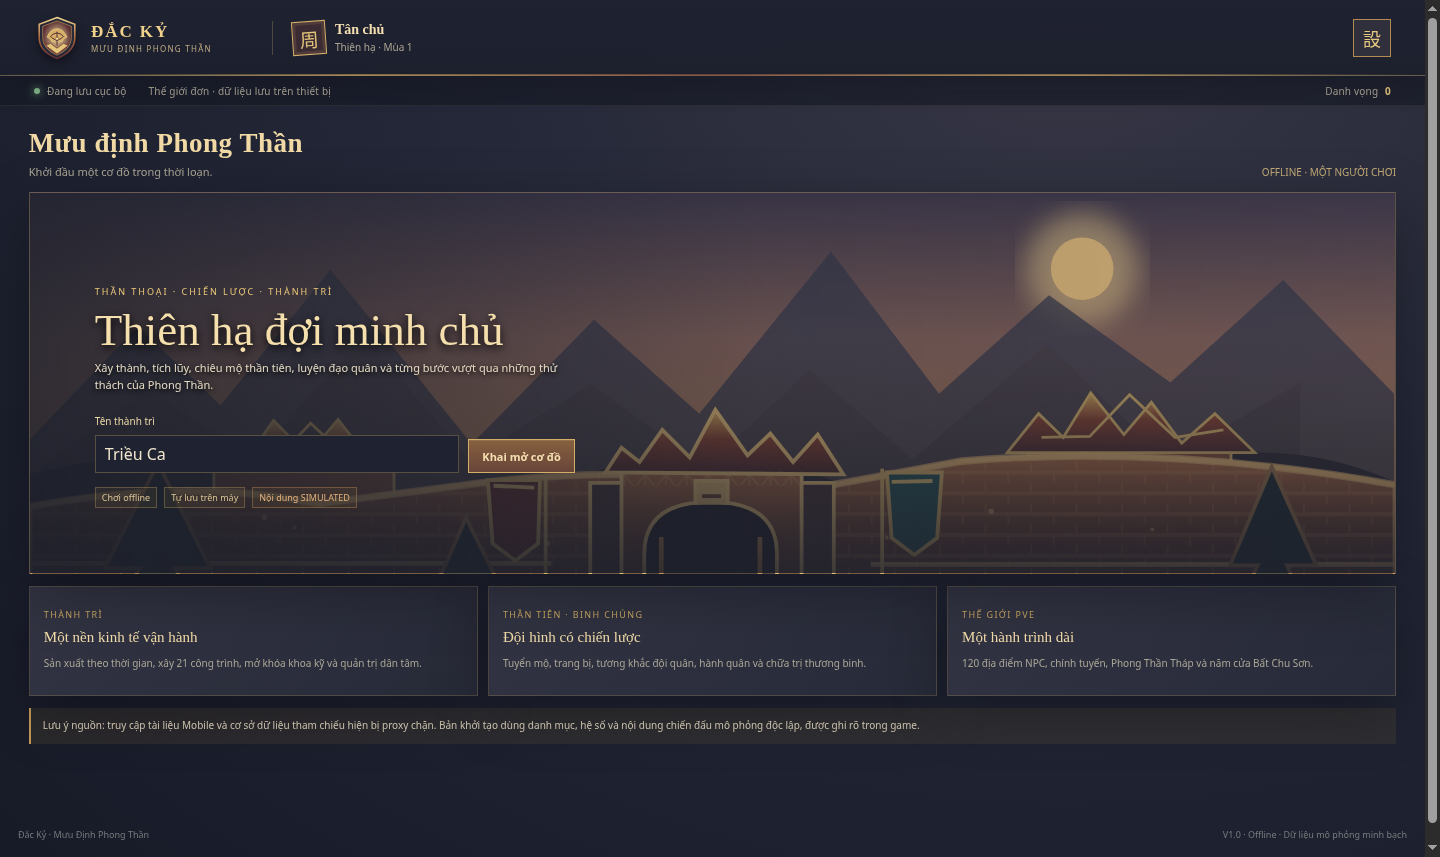
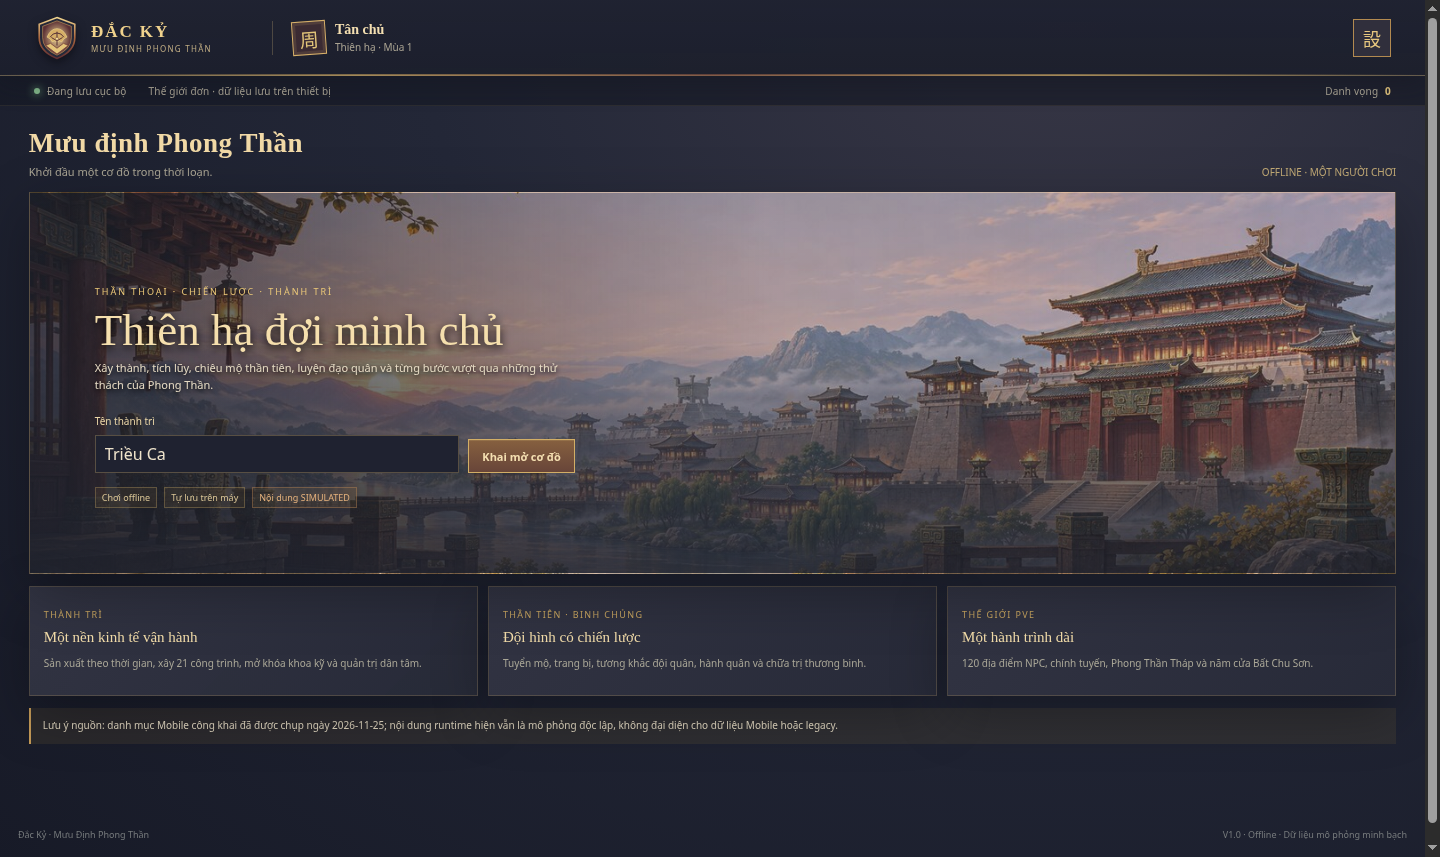
feat: add original Jiang Ziya portrait asset

Changed region(s): [[0.0625, 0.2124, 0.9688, 0.6674], [0.0938, 0.8191, 0.625, 0.8495], [0.2188, 0.5461, 0.2812, 0.5764]]

diff --git a/DackyMobile/src/ui.js b/DackyMobile/src/ui.js
@@ -151,7 +151,7 @@ function heroScreen(state, _now, uiState={}) {
     const equipped = Object.values(save.equipment || {}).filter(Boolean).map(id => ITEMS.find(x => x.id === id)?.name).filter(Boolean);
     const nextXp=save.level>=60?0:100+save.level*save.level*34;
     const combatSkill=HERO_SKILLS.find(skill=>skill.name===data.skill);
-    return `<article class="hero-card"><div class="portrait portrait-${i%6}" role="img" aria-label="Chân dung ${esc(data.name)}"></div><div class="hero-card-info"><h3 class="hero-name">${esc(data.name)}</h3><div class="hero-subtitle">${data.role} · ${data.quality} phẩm · +${Math.round((HERO_QUALITY_MULTIPLIERS[data.quality]-1)*100)}% căn cơ · ${data.element}</div><div class="hero-stats"><div class="hero-stat"><b>${data.attack+save.level*2}</b><small>Đánh</small></div><div class="hero-stat"><b>${data.defense+save.level*2}</b><small>Thủ</small></div><div class="hero-stat"><b>${fmt(heroPower(save,state))}</b><small>Lực chiến</small></div></div><div class="hero-subtitle">${esc(data.skill)} · ${esc(data.skillText)} · kỹ năng cấp ${save.skillLevel}</div>${combatSkill?`<div class="hero-subtitle">Bị động: ${esc(combatSkill.passive)} · Chủ động: ${esc(combatSkill.activeName)} (hiệp ${combatSkill.triggerRound})</div>`:''}<div class="hero-affinity"><div class="hero-affinity-head"><span>Linh căn</span><b>${save.affinity}/100</b></div><progress max="100" value="${save.affinity}"></progress><small>Tu luyện, hành quân và đấu pháp tăng linh căn; linh căn cường hóa lực chiến và pháp môn.</small></div><div class="hero-subtitle">Trang bị: ${equipped.length ? equipped.map(esc).join(' · ') : 'chưa có'} · ${fmt(save.xp)} / ${fmt(nextXp)} XP</div></div><div class="hero-footer">${button('assignHero',save.assigned?'Rời đội hình':'Vào đội hình',false,save.assigned?'button ghost small':'button small',`data-hero="${save.id}"`)}${button('trainHero',save.level>=60?'Kết mạch linh căn':'Tu luyện · + linh căn',state.resources.food<65*save.level||state.resources.gold<85*save.level||(save.level>=60&&save.affinity>=100),'button small',`data-hero="${save.id}"`)}<span class="tag simulated">SIMULATED</span></div></article>`;
+    return `<article class="hero-card"><div class="portrait portrait-${i%6}" data-hero-id="${esc(data.id)}" role="img" aria-label="Chân dung ${esc(data.name)}"></div><div class="hero-card-info"><h3 class="hero-name">${esc(data.name)}</h3><div class="hero-subtitle">${data.role} · ${data.quality} phẩm · +${Math.round((HERO_QUALITY_MULTIPLIERS[data.quality]-1)*100)}% căn cơ · ${data.element}</div><div class="hero-stats"><div class="hero-stat"><b>${data.attack+save.level*2}</b><small>Đánh</small></div><div class="hero-stat"><b>${data.defense+save.level*2}</b><small>Thủ</small></div><div class="hero-stat"><b>${fmt(heroPower(save,state))}</b><small>Lực chiến</small></div></div><div class="hero-subtitle">${esc(data.skill)} · ${esc(data.skillText)} · kỹ năng cấp ${save.skillLevel}</div>${combatSkill?`<div class="hero-subtitle">Bị động: ${esc(combatSkill.passive)} · Chủ động: ${esc(combatSkill.activeName)} (hiệp ${combatSkill.triggerRound})</div>`:''}<div class="hero-affinity"><div class="hero-affinity-head"><span>Linh căn</span><b>${save.affinity}/100</b></div><progress max="100" value="${save.affinity}"></progress><small>Tu luyện, hành quân và đấu pháp tăng linh căn; linh căn cường hóa lực chiến và pháp môn.</small></div><div class="hero-subtitle">Trang bị: ${equipped.length ? equipped.map(esc).join(' · ') : 'chưa có'} · ${fmt(save.xp)} / ${fmt(nextXp)} XP</div></div><div class="hero-footer">${button('assignHero',save.assigned?'Rời đội hình':'Vào đội hình',false,save.assigned?'button ghost small':'button small',`data-hero="${save.id}"`)}${button('trainHero',save.level>=60?'Kết mạch linh căn':'Tu luyện · + linh căn',state.resources.food<65*save.level||state.resources.gold<85*save.level||(save.level>=60&&save.affinity>=100),'button small',`data-hero="${save.id}"`)}<span class="tag simulated">SIMULATED</span></div></article>`;
   }).join('');
   const unowned = HEROES.filter(h => !state.heroes.some(ownedHero => ownedHero.id === h.id));
   const recruitPageSize=24,recruitPageCount=Math.max(1,Math.ceil(unowned.length/recruitPageSize));

diff --git a/DackyMobile/sw.js b/DackyMobile/sw.js
@@ -1,8 +1,8 @@
-const CACHE = 'dacky-mobile-shell-v3';
+const CACHE = 'dacky-mobile-shell-v4';
 const SHELL = [
   './', './index.html', './styles.css', './manifest.webmanifest', './src/catalog.js', './src/engine.js',
   './src/store.js', './src/ui.js', './src/main.js', './src/source-adapter.js', './src/approved-source-data.js',
-  './assets/crest.svg', './assets/city-panorama.jpg', './assets/heroes-atlas.svg'
+  './assets/crest.svg', './assets/city-panorama.jpg', './assets/heroes-atlas.svg', './assets/portraits/jiang-zia.webp'
 ];
 
 self.addEventListener('install', event => {

diff --git a/DackyMobile/styles.css b/DackyMobile/styles.css
@@ -147,6 +147,7 @@ body.reduce-motion *, body.reduce-motion *:before, body.reduce-motion *:after { 
 .portrait-3 { background-position:0 100%; }
 .portrait-4 { background-position:50% 100%; }
 .portrait-5 { background-position:100% 100%; }
+.portrait[data-hero-id="hero-01"] { background-image:url('./assets/portraits/jiang-zia.webp'); background-size:cover; background-position:center 35%; }
 .hero-card-info { min-width:0; }
 .hero-name { margin:0 0 4px; color:#f2dca9; font:15px Georgia,serif; }
 .hero-subtitle { color:#a9a596; font-size:9px; }

diff --git a/DackyMobile/PROGRESS.md b/DackyMobile/PROGRESS.md
@@ -4,10 +4,10 @@ Cập nhật: 2026-11-25 · Repository `vuanhtuan161094-byte/Dacky` · Nhánh ta
 
 ## Checkpoint hiện tại
 
-- `feature/dacky-v1-production` tiếp tục từ checkpoint đã push `829ac32a911091c20f86d6bd1580d947a8791aa0` và `a26a6157f74e79e198705575e3dbfe27d8d8aa89`; checkpoint hiện tại bổ sung combat thần tiên theo hiệp. Không merge hoặc force-push.
+- `feature/dacky-v1-production` tiếp tục từ các checkpoint đã push `829ac32a911091c20f86d6bd1580d947a8791aa0`, `a26a6157f74e79e198705575e3dbfe27d8d8aa89` và `4ec5879cabf29216223ec7a5ad2d9f592bb78770`; lô đang hoàn thiện thêm một portrait nguyên bản, PWA cache và APK/AAB. Không merge hoặc force-push.
 - Dùng trực tiếp cloud environment đã thiết lập; không cài lại toolchain. Capacitor 8.6.2, JDK 21, Android SDK 36 và Gradle 8.14.3 vẫn là cấu hình đã xác minh.
 - Web game hiện có kinh tế, 21 công trình, 19 nhánh khoa kỹ, 39 binh chủng, 540 hồ sơ thần tiên, 2.155 vật phẩm, 1.158 nhiệm vụ, 120 điểm PvE, chiến đấu NPC, lưu/tải, PWA và asset SVG nguyên bản. Các nội dung này vẫn được đánh dấu `SIMULATED`; chưa có nguồn nào đủ quyền để thay dữ liệu runtime.
-- Đã tích hợp nền thành trì nguyên bản do image tool tạo, 1536×512 JPEG, 206 KiB, provenance/hash ở `docs/ASSET_PROVENANCE.md`; hero/building/troop sprite, animation và VFX vẫn còn việc sản xuất.
+- Đã tích hợp nền thành trì nguyên bản 1536×512 JPEG và một portrait master Khương Tử Nha 768×1024 WebP; provenance, prompt và SHA ở `docs/ASSET_PROVENANCE.md`. Portrait chỉ gắn vào `hero-01`; các chân dung còn lại vẫn dùng atlas vector dùng chung. Sprite công trình/quân, portrait riêng cho các thần tiên khác, animation và VFX còn thiếu.
 - Đấu pháp thần tiên tại Phong Thần Tháp, Tiên Sơn và Bất Chu Sơn đã chuyển từ so lực chiến một bước sang tối đa sáu hiệp deterministic: initiative, thường công, kỹ năng, sát thương, khiên/hồi phục, máu và sĩ khí còn lại được giữ trong chiến báo. Tiên Sơn đã thắng được khóa thưởng để tránh farm lặp.
 - Đã ghim Capacitor 8.6.2, thêm lockfile và tạo Android native project. Gradle Wrapper 8.14.3 kiểm tra SHA-256; Android SDK Platform 36, Build Tools 35.0.0 và JDK 21.0.13.1+2 đã build APK debug thành công.
 - Giới hạn Phong Thần Tháp hiện là 9.999 do bản mô phỏng chọn. Số 8.992 thuộc bảng tầng Tiên Sơn legacy `elflandfloorinfo`; không có nguồn xác minh số tầng Tháp.
@@ -25,17 +25,18 @@ Cập nhật: 2026-11-25 · Repository `vuanhtuan161094-byte/Dacky` · Nhánh ta
 - `npm ci --no-audit --no-fund --cache /workspace/.npm-cache`: PASS.
 - `npm test`: PASS 32/32, gồm combat thần tiên xác định theo seed, kỹ năng theo hiệp và chặn thưởng Tiên Sơn lặp, cùng adapter nguồn fail-closed/provenance theo trường.
 - Python source tests: PASS 10/10 (8 parser + 2 normalizer). `verify_legacy_cache.py`: PASS 208/208 SHA. Parser: 67 decoded, 3 held, 161.331 hàng. Chuẩn hóa: 67 bảng, 3 held, 161.331 hàng; dữ liệu đầu ra ở `input-private/normalized_legacy/`.
-- `npm run build` sau thay đổi combat: PASS; xuất 4.680 hàng SIMULATED trên 9 bảng, PWA và `dist/offline.html`.
-- Local HTTP smoke sau thay đổi: PASS 200 cho index, PWA shell v3, source adapter modules, JPEG và single-file HTML; bản offline HTML đã inline ảnh. Chromium headless screenshot không chạy được ngay cả với `about:blank` vì crashpad/NSS trong image; không nhận screenshot QA mới.
[1 lines of base64/hex data omitted]
+- `npm run build` sau combat và portrait: PASS; xuất 4.680 hàng SIMULATED trên 9 bảng, PWA shell v4 và `dist/offline.html`; xác nhận portrait WebP được inline trong HTML một file.
+- Chromium `qa/browser-smoke.mjs`: PASS, startup/new save, 21 công trình, 11 màn hình, kinh tế, phân trang NPC/shop/quest/Tiên Sơn, xây dựng, chiêu mộ/trang bị, huấn luyện/hành quân/chiến báo, thành phụ, IndexedDB reload, viewport 390×844 và 844×390; không có lỗi console. Screenshot cập nhật ở `qa/screenshots/`.
+- PWA offline relaunch sau cài shell v4: PASS; cache chứa portrait WebP và roster vẫn hiển thị chân dung sau reload khi ngắt mạng. Single-file HTML PASS khi mở qua HTTP rồi ngắt mạng: tạo save và chơi tiếp, chỉ có request lấy chính tệp HTML, không request CSS/JS/ảnh phụ. Browser environment chặn navigation `file://` bởi administrator policy nên cách mở trực tiếp bằng giao thức file chưa xác minh.
[1 lines of base64/hex data omitted]
 
 ## Việc còn mở
 
 - 3 bảng legacy còn `HOLD`: `generalrefreshlevellimitinfo` (packed record type 249 chưa có decoder), `upgradeexp` (packed record type 253 chưa có decoder), `fieldrandeventcfginfo` (pinned tree chỉ có `.frm`, thiếu `.MYI` và `.MYD`, không có row count). Không đoán layout nén.
 - Chưa có content-level Mobile/legacy diff hoặc dữ liệu nguồn đã được quyền sử dụng; chỉ có category-count deltas. Không tuyên bố gameplay parity hay hoàn tất V1.0.
 - APK debug chưa được cài/kiểm tra trên emulator hoặc thiết bị. ADB server không khởi động trong máy cloud do thư mục home mặc định chỉ đọc; chưa có emulator trong SDK.
-- PWA offline relaunch đã PASS ở checkpoint trước; cache shell hiện tăng lên v3 để gồm adapter và ảnh thành trì, chưa chạy lại offline-browser sau update vì Chromium headless lỗi.
-- `dist/offline.html` được tạo, chứa ảnh nền in-line và trả HTTP 200 từ dev server; mở trực tiếp bằng `file://` chưa được xác minh trong Chromium hiện tại.
+- APK chưa được cài và kiểm tra trên thiết bị Android vật lý.
+- `dist/offline.html` được tạo, chứa ảnh nền cùng portrait in-line; mở trực tiếp bằng `file://` chưa được xác minh.
 
 ## Lịch sử checkpoint được nhập
 

diff --git a/DackyMobile/docs/ASSET_PROVENANCE.md b/DackyMobile/docs/ASSET_PROVENANCE.md
@@ -12,6 +12,19 @@
 - Prompt: “Create an original high-quality 2D game environment background for a Vietnamese offline strategy game set in the mythic Shang era. Very wide horizontal panorama, roughly 3:1 composition: an ancient Chinese fortified capital with elegant layered tiled roofs, warm vermilion gates, aged bronze details, timber buildings, distant blue-gray mountains, a river and mist at sunrise, soft gold lantern light. Painterly, refined mobile game illustration, coherent muted indigo, jade, earth red and antique gold palette; detailed enough to feel authored, quiet enough to sit behind readable UI. Keep the central and upper area visually calm for overlaid interface text. No characters, no text, no calligraphy, no logos, no frame, no watermark, no UI, no emoji. Full-bleed landscape scene.”
 - Original render: 2172×724 PNG; final export: 1536×512 JPEG, 210,824 bytes
[1 lines of base64/hex data omitted]
-- States: image created PASS; file exported PASS; visual asset QA PASS (composition inspected, no visible text/logo/watermark, 3:1 bounds); integration PASS (city and ending CSS, offline bundle, PWA shell v3, APK and AAB include it). In-game screenshot QA NOT TESTED because Chromium headless failed before capturing even `about:blank`.
+- States: image created PASS; file exported PASS; visual asset QA PASS (composition inspected, no visible text/logo/watermark, 3:1 bounds); integration PASS (city and ending CSS, offline bundle, PWA shell v4, APK and AAB include it); in-game screenshot QA PASS (`qa/screenshots/02-city-desktop.png`).
 - Spend estimate: not returned by the generator
 - Provenance/license: project-generated original; no third-party game asset used. Applicable platform terms were not independently audited.
+
+## Jiang Ziya portrait v1
+
+- File: `assets/portraits/jiang-zia.webp`
+- Purpose: portrait for the independently authored `hero-01` Jiang Ziya roster entry.
+- State: `RECREATED` (project-generated original; not copied from Dacky Mobile or another game).
[1 lines of base64/hex data omitted]
+- Generator: `image_gen__imagegen`; generated image ID `exec-ac08750e-3341-4a6e-a359-4f46d97e4c29`.
+- Prompt version: `DACKY_JIANG_ZIYA_PORTRAIT_V1`.
+- Prompt: “Create one original production-quality character portrait illustration for an offline strategy RPG inspired by classical Chinese myth, not based on any existing game art. Subject: Jiang Ziya, an elderly wise military strategist and immortal, long silver-white beard, calm observant eyes, dark indigo scholar-warrior robe with subtle antique gold cloud embroidery, a simple jade hairpin, holding a slender bamboo command scroll. Waist-up, front three-quarter pose, dignified and warm, elegant painterly mobile game key art, refined brush texture, cinematic soft golden dawn rim light, deep blue-green and muted gold palette, distinct readable silhouette at small card size. Vertical 3:4 composition, face in upper third, shoulders fully visible, atmospheric mountain mist and faint pines in background, detailed but uncluttered. No text, no calligraphy, no logos, no watermark, no UI, no frame, no collage, no extra hands or duplicate props.”
[1 lines of base64/hex data omitted]
+- QA: visual review PASS for distinct face/silhouette, intact hand and scroll, no visible text/logo/watermark; portrait-card crop inspected; integration PASS in roster, offline HTML, PWA v4 cache, debug APK/AAB; browser screenshot `qa/screenshots/03-heroes-desktop.png` confirms the intended entry renders. No animation frames; this is a single portrait still.
+- Spend estimate: not returned by the generator. Applicable platform terms were not independently audited.
